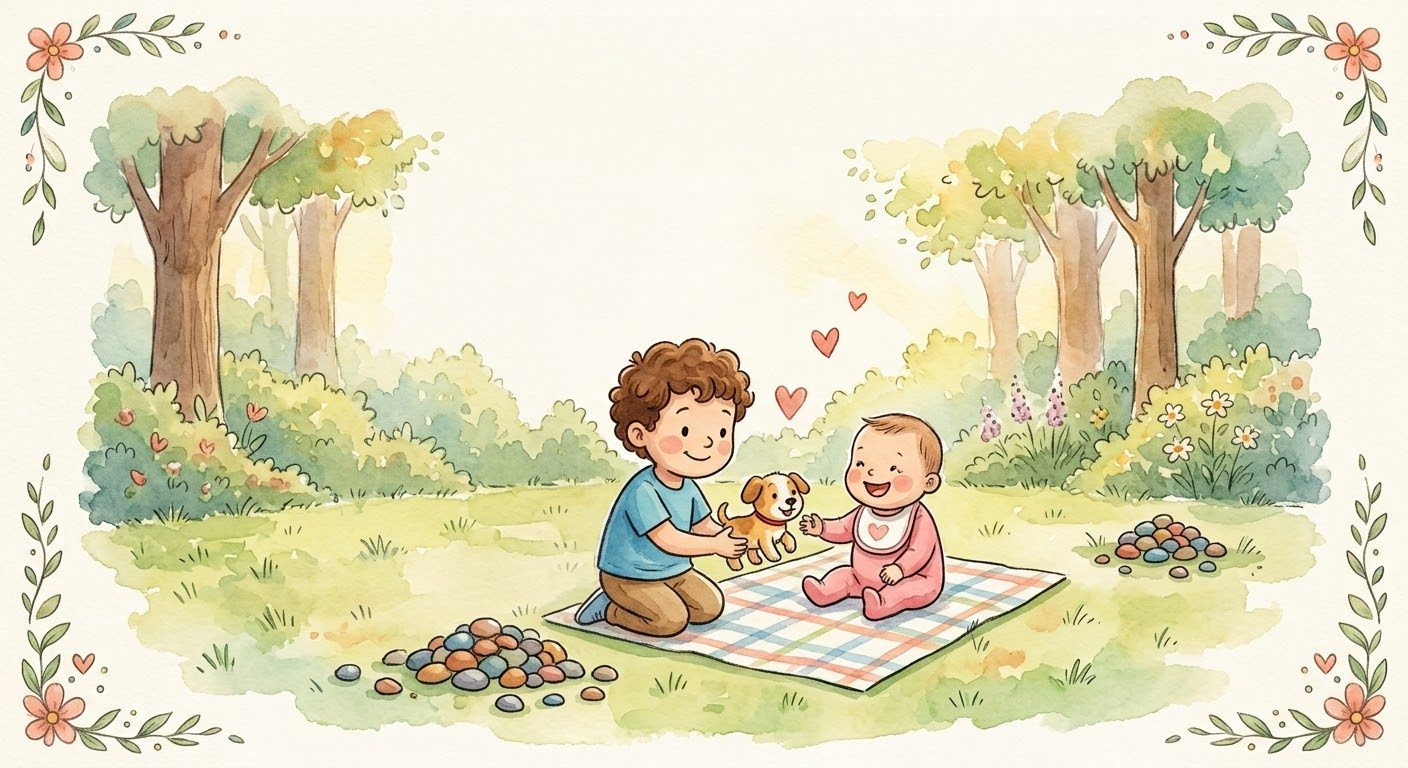
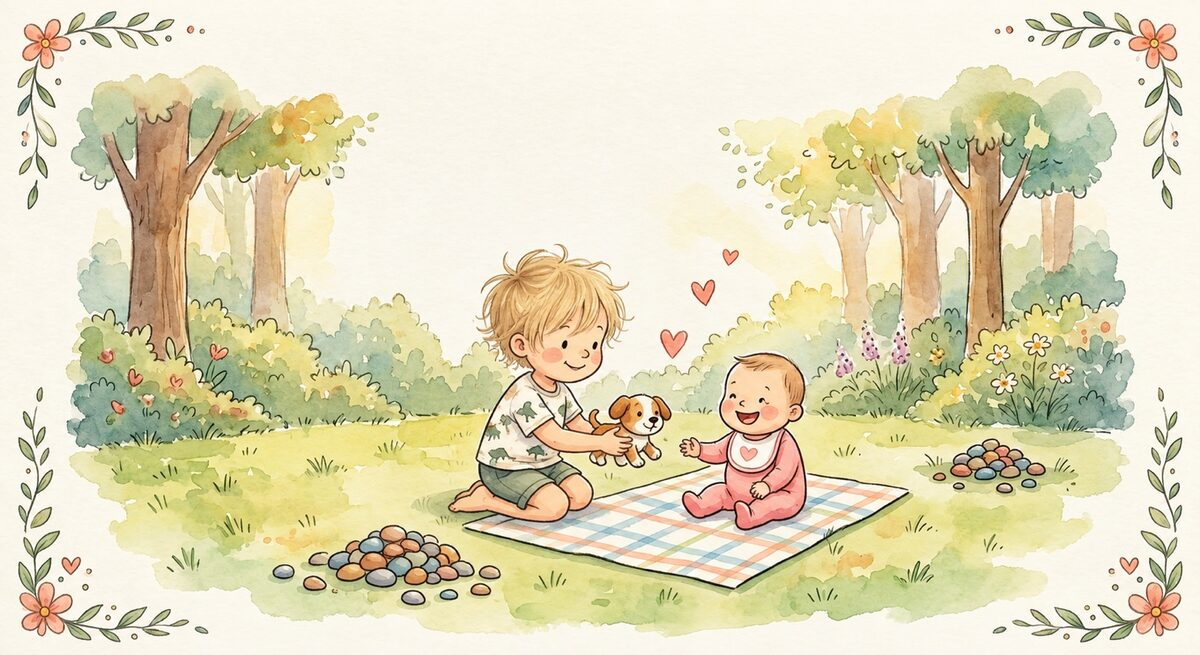
Add selected illustrations to parenting articles

diff --git a/article-limites.html b/article-limites.html
@@ -11,6 +11,7 @@
 <meta property="og:title" content="Et si on disait moins « non » à nos enfants ? | Les petits bugs">
 <meta property="og:description" content="Trois façons de poser une limite sans entrer dans le bras de fer.">
 <meta property="og:url" content="https://uceemso.github.io/petits-pas-site/article-limites.html">
+<meta property="og:image" content="https://uceemso.github.io/petits-pas-site/illustration-limites.jpg">
 <meta property="og:locale" content="fr_FR">
 <meta name="twitter:card" content="summary_large_image">
 <link rel="apple-touch-icon" href="apple-touch-icon.png">
@@ -66,7 +67,7 @@
     <p>C’est une petite différence dans nos mots, mais elle peut avoir une grande différence dans la réaction de l’enfant. Parce qu’au lieu de simplement lui fermer une porte, on lui en ouvre une autre.</p>
   </div>
   <section class="related"><div class="wrap"><h2>À lire aussi</h2><div class="mag-grid">
-    <a href="article-emotions.html" class="card"><div class="photo-wrap emotion-art"><div class="emotion-scene" aria-hidden="true"><span class="emotion-sun"></span><span class="emotion-parent"></span><span class="emotion-child"></span><span class="emotion-heart">♡</span></div></div><span class="cat">Émotions</span><h3>Avant de corriger, commençons par écouter</h3><span class="date">4 min de lecture</span></a>
+    <a href="article-emotions.html" class="card"><div class="photo-wrap"><img src="illustration-emotions.jpg" alt="Une mère assise auprès de son enfant triste." style="width:100%;height:100%;object-fit:cover;" loading="lazy"></div><span class="cat">Émotions</span><h3>Avant de corriger, commençons par écouter</h3><span class="date">4 min de lecture</span></a>
   </div></div></section>
 </main>
 <footer class="site"><div class="wrap footer-inner"><a href="index.html" class="logo footer-logo"><img src="logo-mark.png" alt="" class="footer-mark"><span class="text">Les petits bugs</span></a><p>Un petit journal pour les grands moments du quotidien.</p></div></footer>

diff --git a/article-emotions.html b/article-emotions.html
@@ -11,6 +11,7 @@
 <meta property="og:title" content="Avant de corriger, commençons par écouter | Les petits bugs">
 <meta property="og:description" content="Avant de corriger ou de chercher une solution, commençons par reconnaître ce que notre enfant ressent.">
 <meta property="og:url" content="https://uceemso.github.io/petits-pas-site/article-emotions.html">
+<meta property="og:image" content="https://uceemso.github.io/petits-pas-site/illustration-emotions.jpg">
 <meta property="og:locale" content="fr_FR">
 <meta name="twitter:card" content="summary_large_image">
 <link rel="apple-touch-icon" href="apple-touch-icon.png">
@@ -50,14 +51,7 @@
 
 <main class="article">
   <div class="article-hero wrap">
-    <div class="photo-wrap emotion-art" aria-label="Illustration d’un parent qui accueille l’émotion d’un enfant">
-      <div class="emotion-scene">
-        <span class="emotion-sun"></span>
-        <span class="emotion-parent"></span>
-        <span class="emotion-child"></span>
-        <span class="emotion-heart">♡</span>
-      </div>
-    </div>
+    <div class="photo-wrap"><img src="illustration-emotions.jpg" alt="Une mère assise auprès de son enfant triste, dans une illustration à l’aquarelle." style="width:100%;height:100%;object-fit:cover;"></div>
   </div>
 
   <div class="article-head wrap">

diff --git a/index.html b/index.html
@@ -74,13 +74,8 @@
     <div class="mag-grid" id="card-grid">
       <a href="article-emotions.html" class="card featured" data-search="émotions emotion colère tristesse frustration enfant parents connexion écouter comprendre">
         <div class="inner">
-          <div class="photo-wrap emotion-art" aria-hidden="true">
-            <div class="emotion-scene">
-              <span class="emotion-sun"></span>
-              <span class="emotion-parent"></span>
-              <span class="emotion-child"></span>
-              <span class="emotion-heart">♡</span>
-            </div>
+          <div class="photo-wrap">
+            <img src="illustration-emotions.jpg" alt="Une mère assise auprès de son enfant triste." style="width:100%;height:100%;object-fit:cover;">
           </div>
           <div>
             <span class="cat">Émotions</span>
